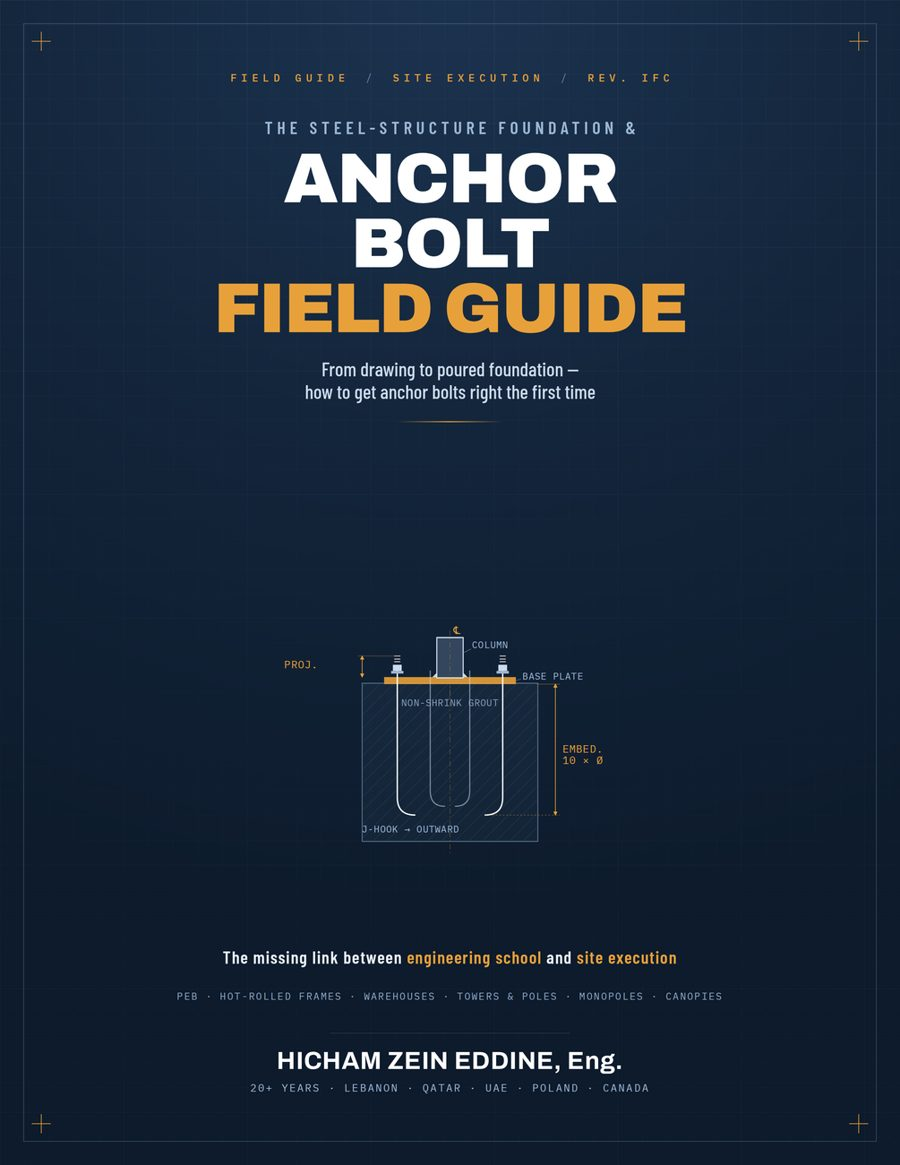
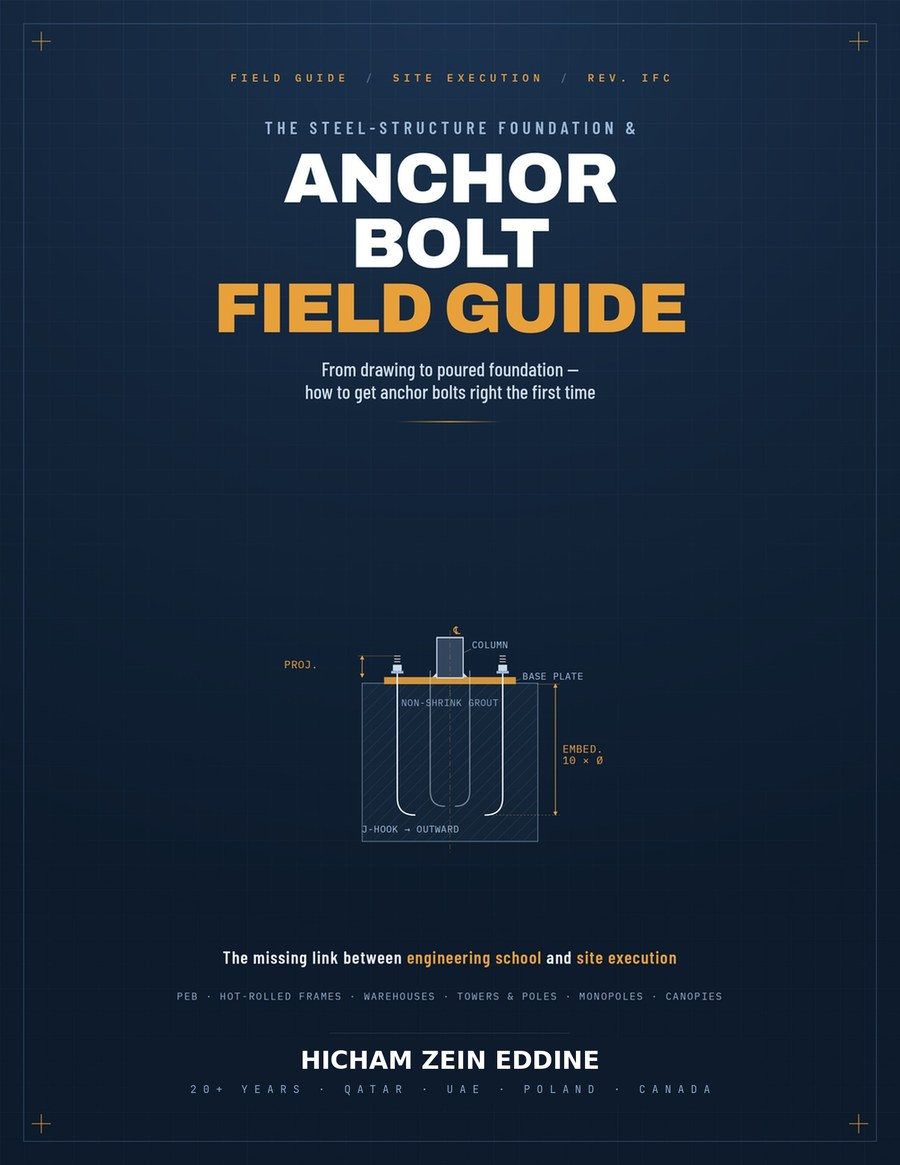
Add Kindle edition link (Amazon) and update cover images without old author title (#2)

Changed region(s): [[0.28, 0.8961, 0.6844, 0.9579], [0.6844, 0.927, 0.7156, 0.9579]]

diff --git a/articles/index.html b/articles/index.html
@@ -34,7 +34,7 @@ footer nav a{color:var(--muted);margin:0 4px}
 .hero h1{font-size:34px;line-height:1.2;margin:0 0 14px}.hero p{color:#d7e0ee;margin:0 0 18px}
 .kicker{color:var(--gold);font-weight:700;letter-spacing:2px;font-size:13px;text-transform:uppercase}
 .btn{display:inline-block;background:var(--gold);color:#13213a;font-weight:800;text-decoration:none;padding:13px 22px;border-radius:8px;margin:6px 0}
-.btn:hover{filter:brightness(1.05)}.btn.ghost{background:transparent;color:#fff;border:2px solid #ffffff55}
+.btn:hover{filter:brightness(1.05)}.btn.amz{background:#fff;color:#13213a;border:2px solid #13213a;padding:11px 20px;margin-left:6px}.btn.ghost{background:transparent;color:#fff;border:2px solid #ffffff55}
 .price{color:#fff;font-weight:700;margin-left:10px}
 main{padding:34px 0 10px}main h1{font-size:30px;line-height:1.25;margin:.2em 0 .5em}
 h2{font-size:23px;margin:1.6em 0 .5em;color:var(--navy)}h3{font-size:19px;margin:1.3em 0 .4em}
@@ -67,7 +67,7 @@ ul.check li:before{content:"";position:absolute;left:2px;top:12px;width:18px;hei
 <main><div class="wrap"><h1>Articles for site engineers and engineering students</h1><p>Practical answers taken from the field guide. Each one is short, sourced from the book, and ends with what to check on site.</p><div class="grid"><a class="card" href="/anchors-book-/articles/anchor-bolt-template/"><h3>How to make and use an anchor bolt template</h3><p>Why every anchor bolt group needs a template, how to fabricate it to match the column base plate, and why you should kee…</p></a><a class="card" href="/anchors-book-/articles/astm-f1554-grades/"><h3>ASTM F1554 Grade 36 vs 55 vs 105: which anchor bolt grade?</h3><p>The three ASTM F1554 anchor bolt grades, their yield strengths and typical uses, how they relate to ISO 8.8 and 10.9, an…</p></a><a class="card" href="/anchors-book-/articles/anchor-bolt-tolerances/"><h3>Anchor bolt setting tolerances: what is acceptable?</h3><p>Typical anchor bolt tolerances for bolt group position, spacing, projection and top elevation, based on AISC and ACI 117…</p></a><a class="card" href="/anchors-book-/articles/misaligned-anchor-bolts/"><h3>Misaligned anchor bolts after casting: the correct fixes</h3><p>What to do when the bolt group does not line up with the base plate holes: under 6 mm, 6 to 12 mm, and over 12 mm. Why y…</p></a><a class="card" href="/anchors-book-/articles/l-bolt-j-bolt-hook-orientation/"><h3>L-bolt and J-bolt hooks: which way should they face?</h3><p>Hooked anchor bolts must face the outside of the foundation. Plus the two-nuts-two-washers rule, embedment depth, and th…</p></a><a class="card" href="/anchors-book-/articles/pre-pour-checklist/"><h3>Pre-pour checklist for anchor bolts and foundations (final gate)</h3><p>The final gate before casting a steel-structure foundation: bolts, formwork, rebar, spacers, cleaning, threads, access, …</p></a><a class="card" href="/anchors-book-/articles/pouring-concrete-around-anchor-bolts/"><h3>Pouring concrete around anchor bolts without moving them</h3><p>Never aim the pump at the bolts, pour all ready foundations at once to avoid cold joints, and stop only at a designed co…</p></a><a class="card" href="/anchors-book-/articles/base-plate-non-shrink-grout/"><h3>Base plate grouting: why it must be non-shrink grout</h3><p>How the base plate sits on levelling nuts, why the gap must be filled with non-shrink grout (ASTM C1107), and how to fix…</p></a><a class="card" href="/anchors-book-/articles/damaged-anchor-bolt-threads/"><h3>Protecting and repairing anchor bolt threads</h3><p>Tape the threads before casting, and how to fix concrete-coated, impact-damaged or severely damaged anchor bolt threads.…</p></a><a class="card" href="/anchors-book-/articles/src-vs-opc-cement-foundations/"><h3>SRC vs OPC: which cement for foundations?</h3><p>Sulfate-Resisting Cement below ground, Ordinary Portland Cement above ground, with typical grades for blinding, footings…</p></a><a class="card" href="/anchors-book-/articles/first-day-on-site-new-engineer/"><h3>Your first site as a new engineer: earning the crew&#x27;s respect</h3><p>For engineering students and new graduates: how to work with tradesmen who have more years on site, avoid approval traps…</p></a><a class="card" href="/anchors-book-/articles/anchor-bolt-embedment-depth/"><h3>Anchor bolt embedment depth: how deep should anchor bolts go?</h3><p>Embedment depth is a design value, not a site estimate. The common 10 x diameter rule of thumb, what governs the real fi…</p></a><a class="card" href="/anchors-book-/articles/base-plate-levelling-nuts-shims/"><h3>Levelling nuts or shims under a column base plate?</h3><p>Why the base plate sits above the concrete on levelling nuts or shims, how the gap is used to level and plumb the column…</p></a><a class="card" href="/anchors-book-/articles/post-installed-anchors-chemical-vs-mechanical/"><h3>Post-installed anchors: chemical vs mechanical vs undercut</h3><p>When you need drilled-in anchors instead of cast-in bolts, how chemical, expansion and undercut anchors work, the standa…</p></a><a class="card" href="/anchors-book-/articles/steel-structure-foundation-sequence/"><h3>Steel structure foundation sequence: from drawing to grouted base plate</h3><p>The site sequence for PEB, warehouse, tower and canopy foundations in 15 steps: drawings, survey, access, excavation, bl…</p></a><a class="card" href="/anchors-book-/articles/pole-tower-anchor-bolts-uplift/"><h3>Anchor bolts for poles, towers and canopies under uplift</h3><p>Telecom masts, transmission towers, lighting poles and open canopies put anchor bolts in tension. What changes on site: …</p></a></div><div class="cta"><img src="/anchors-book-/img/cover.jpg" alt="Cover of the Anchor Bolt Field Guide" width="110" loading="lazy">
 <div><p><strong>The Steel-Structure Foundation & Anchor Bolt Field Guide</strong></p>
 <p>62 pages, the full site sequence from drawing to grouted base plate: survey, excavation, blinding, rebar, the anchor-bolt template, QA/QC hold points and field fixes. Written by Hicham Zein Eddine, from 20+ years on steel-structure and foundation sites in Qatar, the UAE, Poland and Canada.</p>
-<a class="btn" href="https://canadacorp.gumroad.com/l/anchor-bolt-guide?utm_source=guide-site&amp;utm_medium=web&amp;utm_campaign=articles">Get the full 62-page guide &rarr;</a></div></div></div></main>
+<a class="btn" href="https://canadacorp.gumroad.com/l/anchor-bolt-guide?utm_source=guide-site&amp;utm_medium=web&amp;utm_campaign=articles">Get the full 62-page guide &rarr;</a> <a class="btn amz" href="https://www.amazon.com/dp/B0HD6LLW8G" rel="noopener">Kindle edition on Amazon</a></div></div></div></main>
 <footer><div class="wrap">
 <p>This content is provided for professional educational use and does not replace a licensed structural engineer or the governing code for your jurisdiction. Always verify against the approved documents for your project.</p>
 <p>&copy; 2026 Hicham Zein Eddine. Content adapted from <em>The Steel-Structure Foundation & Anchor Bolt Field Guide</em>.</p>

diff --git a/index.html b/index.html
@@ -34,7 +34,7 @@ footer nav a{color:var(--muted);margin:0 4px}
 .hero h1{font-size:34px;line-height:1.2;margin:0 0 14px}.hero p{color:#d7e0ee;margin:0 0 18px}
 .kicker{color:var(--gold);font-weight:700;letter-spacing:2px;font-size:13px;text-transform:uppercase}
 .btn{display:inline-block;background:var(--gold);color:#13213a;font-weight:800;text-decoration:none;padding:13px 22px;border-radius:8px;margin:6px 0}
-.btn:hover{filter:brightness(1.05)}.btn.ghost{background:transparent;color:#fff;border:2px solid #ffffff55}
+.btn:hover{filter:brightness(1.05)}.btn.amz{background:#fff;color:#13213a;border:2px solid #13213a;padding:11px 20px;margin-left:6px}.btn.ghost{background:transparent;color:#fff;border:2px solid #ffffff55}
 .price{color:#fff;font-weight:700;margin-left:10px}
 main{padding:34px 0 10px}main h1{font-size:30px;line-height:1.25;margin:.2em 0 .5em}
 h2{font-size:23px;margin:1.6em 0 .5em;color:var(--navy)}h3{font-size:19px;margin:1.3em 0 .4em}
@@ -70,7 +70,7 @@ ul.check li:before{content:"";position:absolute;left:2px;top:12px;width:18px;hei
 <div><p class="kicker">Field guide · Site execution · 62 pages</p>
 <h1>Set anchor bolts right the first time, from drawing to grouted base plate.</h1>
 <p>They taught you how to design a foundation. This guide shows you how to build one: the exact site sequence, the template method, QA/QC hold points and the fixes when something goes wrong.</p>
-<a class="btn" href="https://canadacorp.gumroad.com/l/anchor-bolt-guide?utm_source=guide-site&amp;utm_medium=web&amp;utm_campaign=home-hero">Get the full 62-page guide &rarr;</a><span class="price">CAD$30 · PDF</span><br>
+<a class="btn" href="https://canadacorp.gumroad.com/l/anchor-bolt-guide?utm_source=guide-site&amp;utm_medium=web&amp;utm_campaign=home-hero">Get the full 62-page guide &rarr;</a> <a class="btn amz" href="https://www.amazon.com/dp/B0HD6LLW8G" rel="noopener">Kindle edition on Amazon</a><span class="price">CAD$30 · PDF</span><br>
 <a class="btn ghost" href="/anchors-book-/checklist/">Free pre-pour checklist</a></div>
 <img class="cover" src="/anchors-book-/img/cover.jpg" alt="Cover of The Steel-Structure Foundation & Anchor Bolt Field Guide" width="260"></div></section>
 <main><div class="wrap">
@@ -93,7 +93,7 @@ ul.check li:before{content:"";position:absolute;left:2px;top:12px;width:18px;hei
 <h2>Free articles</h2>
 <div class="grid"><a class="card" href="/anchors-book-/articles/anchor-bolt-template/"><h3>How to make and use an anchor bolt template</h3><p>Why every anchor bolt group needs a template, how to fabricate it to match the column base plate, and why you …</p></a><a class="card" href="/anchors-book-/articles/astm-f1554-grades/"><h3>ASTM F1554 Grade 36 vs 55 vs 105: which anchor bolt grade?</h3><p>The three ASTM F1554 anchor bolt grades, their yield strengths and typical uses, how they relate to ISO 8.8 an…</p></a><a class="card" href="/anchors-book-/articles/anchor-bolt-tolerances/"><h3>Anchor bolt setting tolerances: what is acceptable?</h3><p>Typical anchor bolt tolerances for bolt group position, spacing, projection and top elevation, based on AISC a…</p></a><a class="card" href="/anchors-book-/articles/misaligned-anchor-bolts/"><h3>Misaligned anchor bolts after casting: the correct fixes</h3><p>What to do when the bolt group does not line up with the base plate holes: under 6 mm, 6 to 12 mm, and over 12…</p></a><a class="card" href="/anchors-book-/articles/l-bolt-j-bolt-hook-orientation/"><h3>L-bolt and J-bolt hooks: which way should they face?</h3><p>Hooked anchor bolts must face the outside of the foundation. Plus the two-nuts-two-washers rule, embedment dep…</p></a><a class="card" href="/anchors-book-/articles/pre-pour-checklist/"><h3>Pre-pour checklist for anchor bolts and foundations (final gate)</h3><p>The final gate before casting a steel-structure foundation: bolts, formwork, rebar, spacers, cleaning, threads…</p></a></div>
 <p><a href="/anchors-book-/articles/">All articles &rarr;</a></p>
-<div style="text-align:center;margin:30px 0"><a class="btn" href="https://canadacorp.gumroad.com/l/anchor-bolt-guide?utm_source=guide-site&amp;utm_medium=web&amp;utm_campaign=home-bottom">Get the full 62-page guide &rarr;</a></div>
+<div style="text-align:center;margin:30px 0"><a class="btn" href="https://canadacorp.gumroad.com/l/anchor-bolt-guide?utm_source=guide-site&amp;utm_medium=web&amp;utm_campaign=home-bottom">Get the full 62-page guide &rarr;</a> <a class="btn amz" href="https://www.amazon.com/dp/B0HD6LLW8G" rel="noopener">Kindle edition on Amazon</a></div>
 </div></main>
 <footer><div class="wrap">
 <p>This content is provided for professional educational use and does not replace a licensed structural engineer or the governing code for your jurisdiction. Always verify against the approved documents for your project.</p>

diff --git a/articles/post-installed-anchors-chemical-vs-mechanical/index.html b/articles/post-installed-anchors-chemical-vs-mechanical/index.html
@@ -34,7 +34,7 @@ footer nav a{color:var(--muted);margin:0 4px}
 .hero h1{font-size:34px;line-height:1.2;margin:0 0 14px}.hero p{color:#d7e0ee;margin:0 0 18px}
 .kicker{color:var(--gold);font-weight:700;letter-spacing:2px;font-size:13px;text-transform:uppercase}
 .btn{display:inline-block;background:var(--gold);color:#13213a;font-weight:800;text-decoration:none;padding:13px 22px;border-radius:8px;margin:6px 0}
-.btn:hover{filter:brightness(1.05)}.btn.ghost{background:transparent;color:#fff;border:2px solid #ffffff55}
+.btn:hover{filter:brightness(1.05)}.btn.amz{background:#fff;color:#13213a;border:2px solid #13213a;padding:11px 20px;margin-left:6px}.btn.ghost{background:transparent;color:#fff;border:2px solid #ffffff55}
 .price{color:#fff;font-weight:700;margin-left:10px}
 main{padding:34px 0 10px}main h1{font-size:30px;line-height:1.25;margin:.2em 0 .5em}
 h2{font-size:23px;margin:1.6em 0 .5em;color:var(--navy)}h3{font-size:19px;margin:1.3em 0 .4em}
@@ -93,7 +93,7 @@ ul.check li:before{content:"";position:absolute;left:2px;top:12px;width:18px;hei
 <div class="cta"><img src="/anchors-book-/img/cover.jpg" alt="Cover of the Anchor Bolt Field Guide" width="110" loading="lazy">
 <div><p><strong>The Steel-Structure Foundation & Anchor Bolt Field Guide</strong></p>
 <p>62 pages, the full site sequence from drawing to grouted base plate: survey, excavation, blinding, rebar, the anchor-bolt template, QA/QC hold points and field fixes. Written by Hicham Zein Eddine, from 20+ years on steel-structure and foundation sites in Qatar, the UAE, Poland and Canada.</p>
-<a class="btn" href="https://canadacorp.gumroad.com/l/anchor-bolt-guide?utm_source=guide-site&amp;utm_medium=web&amp;utm_campaign=post-installed-anchors-chemical-vs-mechanical">Get the full 62-page guide &rarr;</a></div></div>
+<a class="btn" href="https://canadacorp.gumroad.com/l/anchor-bolt-guide?utm_source=guide-site&amp;utm_medium=web&amp;utm_campaign=post-installed-anchors-chemical-vs-mechanical">Get the full 62-page guide &rarr;</a> <a class="btn amz" href="https://www.amazon.com/dp/B0HD6LLW8G" rel="noopener">Kindle edition on Amazon</a></div></div>
 <h2>Keep reading</h2>
 <div class="grid"><a class="card" href="/anchors-book-/articles/misaligned-anchor-bolts/"><h3>Misaligned anchor bolts after casting: the correct fixes</h3><p>What to do when the bolt group does not line up with the base plate holes: under 6 mm, 6 to 12 mm, and over 12…</p></a><a class="card" href="/anchors-book-/articles/pre-pour-checklist/"><h3>Pre-pour checklist for anchor bolts and foundations (final gate)</h3><p>The final gate before casting a steel-structure foundation: bolts, formwork, rebar, spacers, cleaning, threads…</p></a><a class="card" href="/anchors-book-/articles/anchor-bolt-embedment-depth/"><h3>Anchor bolt embedment depth: how deep should anchor bolts go?</h3><p>Embedment depth is a design value, not a site estimate. The common 10 x diameter rule of thumb, what governs t…</p></a></div>
 </div></main>

diff --git a/articles/src-vs-opc-cement-foundations/index.html b/articles/src-vs-opc-cement-foundations/index.html
@@ -34,7 +34,7 @@ footer nav a{color:var(--muted);margin:0 4px}
 .hero h1{font-size:34px;line-height:1.2;margin:0 0 14px}.hero p{color:#d7e0ee;margin:0 0 18px}
 .kicker{color:var(--gold);font-weight:700;letter-spacing:2px;font-size:13px;text-transform:uppercase}
 .btn{display:inline-block;background:var(--gold);color:#13213a;font-weight:800;text-decoration:none;padding:13px 22px;border-radius:8px;margin:6px 0}
-.btn:hover{filter:brightness(1.05)}.btn.ghost{background:transparent;color:#fff;border:2px solid #ffffff55}
+.btn:hover{filter:brightness(1.05)}.btn.amz{background:#fff;color:#13213a;border:2px solid #13213a;padding:11px 20px;margin-left:6px}.btn.ghost{background:transparent;color:#fff;border:2px solid #ffffff55}
 .price{color:#fff;font-weight:700;margin-left:10px}
 main{padding:34px 0 10px}main h1{font-size:30px;line-height:1.25;margin:.2em 0 .5em}
 h2{font-size:23px;margin:1.6em 0 .5em;color:var(--navy)}h3{font-size:19px;margin:1.3em 0 .4em}
@@ -91,7 +91,7 @@ ul.check li:before{content:"";position:absolute;left:2px;top:12px;width:18px;hei
 <div class="cta"><img src="/anchors-book-/img/cover.jpg" alt="Cover of the Anchor Bolt Field Guide" width="110" loading="lazy">
 <div><p><strong>The Steel-Structure Foundation & Anchor Bolt Field Guide</strong></p>
 <p>62 pages, the full site sequence from drawing to grouted base plate: survey, excavation, blinding, rebar, the anchor-bolt template, QA/QC hold points and field fixes. Written by Hicham Zein Eddine, from 20+ years on steel-structure and foundation sites in Qatar, the UAE, Poland and Canada.</p>
-<a class="btn" href="https://canadacorp.gumroad.com/l/anchor-bolt-guide?utm_source=guide-site&amp;utm_medium=web&amp;utm_campaign=src-vs-opc-cement-foundations">Get the full 62-page guide &rarr;</a></div></div>
+<a class="btn" href="https://canadacorp.gumroad.com/l/anchor-bolt-guide?utm_source=guide-site&amp;utm_medium=web&amp;utm_campaign=src-vs-opc-cement-foundations">Get the full 62-page guide &rarr;</a> <a class="btn amz" href="https://www.amazon.com/dp/B0HD6LLW8G" rel="noopener">Kindle edition on Amazon</a></div></div>
 <h2>Keep reading</h2>
 <div class="grid"><a class="card" href="/anchors-book-/articles/pre-pour-checklist/"><h3>Pre-pour checklist for anchor bolts and foundations (final gate)</h3><p>The final gate before casting a steel-structure foundation: bolts, formwork, rebar, spacers, cleaning, threads…</p></a><a class="card" href="/anchors-book-/articles/pouring-concrete-around-anchor-bolts/"><h3>Pouring concrete around anchor bolts without moving them</h3><p>Never aim the pump at the bolts, pour all ready foundations at once to avoid cold joints, and stop only at a d…</p></a><a class="card" href="/anchors-book-/articles/first-day-on-site-new-engineer/"><h3>Your first site as a new engineer: earning the crew&#x27;s respect</h3><p>For engineering students and new graduates: how to work with tradesmen who have more years on site, avoid appr…</p></a></div>
 </div></main>

diff --git a/articles/steel-structure-foundation-sequence/index.html b/articles/steel-structure-foundation-sequence/index.html
@@ -34,7 +34,7 @@ footer nav a{color:var(--muted);margin:0 4px}
 .hero h1{font-size:34px;line-height:1.2;margin:0 0 14px}.hero p{color:#d7e0ee;margin:0 0 18px}
 .kicker{color:var(--gold);font-weight:700;letter-spacing:2px;font-size:13px;text-transform:uppercase}
 .btn{display:inline-block;background:var(--gold);color:#13213a;font-weight:800;text-decoration:none;padding:13px 22px;border-radius:8px;margin:6px 0}
-.btn:hover{filter:brightness(1.05)}.btn.ghost{background:transparent;color:#fff;border:2px solid #ffffff55}
+.btn:hover{filter:brightness(1.05)}.btn.amz{background:#fff;color:#13213a;border:2px solid #13213a;padding:11px 20px;margin-left:6px}.btn.ghost{background:transparent;color:#fff;border:2px solid #ffffff55}
 .price{color:#fff;font-weight:700;margin-left:10px}
 main{padding:34px 0 10px}main h1{font-size:30px;line-height:1.25;margin:.2em 0 .5em}
 h2{font-size:23px;margin:1.6em 0 .5em;color:var(--navy)}h3{font-size:19px;margin:1.3em 0 .4em}
@@ -101,7 +101,7 @@ ul.check li:before{content:"";position:absolute;left:2px;top:12px;width:18px;hei
 <div class="cta"><img src="/anchors-book-/img/cover.jpg" alt="Cover of the Anchor Bolt Field Guide" width="110" loading="lazy">
 <div><p><strong>The Steel-Structure Foundation & Anchor Bolt Field Guide</strong></p>
 <p>62 pages, the full site sequence from drawing to grouted base plate: survey, excavation, blinding, rebar, the anchor-bolt template, QA/QC hold points and field fixes. Written by Hicham Zein Eddine, from 20+ years on steel-structure and foundation sites in Qatar, the UAE, Poland and Canada.</p>
-<a class="btn" href="https://canadacorp.gumroad.com/l/anchor-bolt-guide?utm_source=guide-site&amp;utm_medium=web&amp;utm_campaign=steel-structure-foundation-sequence">Get the full 62-page guide &rarr;</a></div></div>
+<a class="btn" href="https://canadacorp.gumroad.com/l/anchor-bolt-guide?utm_source=guide-site&amp;utm_medium=web&amp;utm_campaign=steel-structure-foundation-sequence">Get the full 62-page guide &rarr;</a> <a class="btn amz" href="https://www.amazon.com/dp/B0HD6LLW8G" rel="noopener">Kindle edition on Amazon</a></div></div>
 <h2>Keep reading</h2>
 <div class="grid"><a class="card" href="/anchors-book-/articles/anchor-bolt-template/"><h3>How to make and use an anchor bolt template</h3><p>Why every anchor bolt group needs a template, how to fabricate it to match the column base plate, and why you …</p></a><a class="card" href="/anchors-book-/articles/pre-pour-checklist/"><h3>Pre-pour checklist for anchor bolts and foundations (final gate)</h3><p>The final gate before casting a steel-structure foundation: bolts, formwork, rebar, spacers, cleaning, threads…</p></a><a class="card" href="/anchors-book-/articles/first-day-on-site-new-engineer/"><h3>Your first site as a new engineer: earning the crew&#x27;s respect</h3><p>For engineering students and new graduates: how to work with tradesmen who have more years on site, avoid appr…</p></a></div>
 </div></main>

diff --git a/articles/pole-tower-anchor-bolts-uplift/index.html b/articles/pole-tower-anchor-bolts-uplift/index.html
@@ -34,7 +34,7 @@ footer nav a{color:var(--muted);margin:0 4px}
 .hero h1{font-size:34px;line-height:1.2;margin:0 0 14px}.hero p{color:#d7e0ee;margin:0 0 18px}
 .kicker{color:var(--gold);font-weight:700;letter-spacing:2px;font-size:13px;text-transform:uppercase}
 .btn{display:inline-block;background:var(--gold);color:#13213a;font-weight:800;text-decoration:none;padding:13px 22px;border-radius:8px;margin:6px 0}
-.btn:hover{filter:brightness(1.05)}.btn.ghost{background:transparent;color:#fff;border:2px solid #ffffff55}
+.btn:hover{filter:brightness(1.05)}.btn.amz{background:#fff;color:#13213a;border:2px solid #13213a;padding:11px 20px;margin-left:6px}.btn.ghost{background:transparent;color:#fff;border:2px solid #ffffff55}
 .price{color:#fff;font-weight:700;margin-left:10px}
 main{padding:34px 0 10px}main h1{font-size:30px;line-height:1.25;margin:.2em 0 .5em}
 h2{font-size:23px;margin:1.6em 0 .5em;color:var(--navy)}h3{font-size:19px;margin:1.3em 0 .4em}
@@ -89,7 +89,7 @@ ul.check li:before{content:"";position:absolute;left:2px;top:12px;width:18px;hei
 <div class="cta"><img src="/anchors-book-/img/cover.jpg" alt="Cover of the Anchor Bolt Field Guide" width="110" loading="lazy">
 <div><p><strong>The Steel-Structure Foundation & Anchor Bolt Field Guide</strong></p>
 <p>62 pages, the full site sequence from drawing to grouted base plate: survey, excavation, blinding, rebar, the anchor-bolt template, QA/QC hold points and field fixes. Written by Hicham Zein Eddine, from 20+ years on steel-structure and foundation sites in Qatar, the UAE, Poland and Canada.</p>
-<a class="btn" href="https://canadacorp.gumroad.com/l/anchor-bolt-guide?utm_source=guide-site&amp;utm_medium=web&amp;utm_campaign=pole-tower-anchor-bolts-uplift">Get the full 62-page guide &rarr;</a></div></div>
+<a class="btn" href="https://canadacorp.gumroad.com/l/anchor-bolt-guide?utm_source=guide-site&amp;utm_medium=web&amp;utm_campaign=pole-tower-anchor-bolts-uplift">Get the full 62-page guide &rarr;</a> <a class="btn amz" href="https://www.amazon.com/dp/B0HD6LLW8G" rel="noopener">Kindle edition on Amazon</a></div></div>
 <h2>Keep reading</h2>
 <div class="grid"><a class="card" href="/anchors-book-/articles/l-bolt-j-bolt-hook-orientation/"><h3>L-bolt and J-bolt hooks: which way should they face?</h3><p>Hooked anchor bolts must face the outside of the foundation. Plus the two-nuts-two-washers rule, embedment dep…</p></a><a class="card" href="/anchors-book-/articles/base-plate-non-shrink-grout/"><h3>Base plate grouting: why it must be non-shrink grout</h3><p>How the base plate sits on levelling nuts, why the gap must be filled with non-shrink grout (ASTM C1107), and …</p></a><a class="card" href="/anchors-book-/articles/anchor-bolt-embedment-depth/"><h3>Anchor bolt embedment depth: how deep should anchor bolts go?</h3><p>Embedment depth is a design value, not a site estimate. The common 10 x diameter rule of thumb, what governs t…</p></a></div>
 </div></main>

diff --git a/articles/pouring-concrete-around-anchor-bolts/index.html b/articles/pouring-concrete-around-anchor-bolts/index.html
@@ -34,7 +34,7 @@ footer nav a{color:var(--muted);margin:0 4px}
 .hero h1{font-size:34px;line-height:1.2;margin:0 0 14px}.hero p{color:#d7e0ee;margin:0 0 18px}
 .kicker{color:var(--gold);font-weight:700;letter-spacing:2px;font-size:13px;text-transform:uppercase}
 .btn{display:inline-block;background:var(--gold);color:#13213a;font-weight:800;text-decoration:none;padding:13px 22px;border-radius:8px;margin:6px 0}
-.btn:hover{filter:brightness(1.05)}.btn.ghost{background:transparent;color:#fff;border:2px solid #ffffff55}
+.btn:hover{filter:brightness(1.05)}.btn.amz{background:#fff;color:#13213a;border:2px solid #13213a;padding:11px 20px;margin-left:6px}.btn.ghost{background:transparent;color:#fff;border:2px solid #ffffff55}
 .price{color:#fff;font-weight:700;margin-left:10px}
 main{padding:34px 0 10px}main h1{font-size:30px;line-height:1.25;margin:.2em 0 .5em}
 h2{font-size:23px;margin:1.6em 0 .5em;color:var(--navy)}h3{font-size:19px;margin:1.3em 0 .4em}
@@ -90,7 +90,7 @@ ul.check li:before{content:"";position:absolute;left:2px;top:12px;width:18px;hei
 <div class="cta"><img src="/anchors-book-/img/cover.jpg" alt="Cover of the Anchor Bolt Field Guide" width="110" loading="lazy">
 <div><p><strong>The Steel-Structure Foundation & Anchor Bolt Field Guide</strong></p>
 <p>62 pages, the full site sequence from drawing to grouted base plate: survey, excavation, blinding, rebar, the anchor-bolt template, QA/QC hold points and field fixes. Written by Hicham Zein Eddine, from 20+ years on steel-structure and foundation sites in Qatar, the UAE, Poland and Canada.</p>
-<a class="btn" href="https://canadacorp.gumroad.com/l/anchor-bolt-guide?utm_source=guide-site&amp;utm_medium=web&amp;utm_campaign=pouring-concrete-around-anchor-bolts">Get the full 62-page guide &rarr;</a></div></div>
+<a class="btn" href="https://canadacorp.gumroad.com/l/anchor-bolt-guide?utm_source=guide-site&amp;utm_medium=web&amp;utm_campaign=pouring-concrete-around-anchor-bolts">Get the full 62-page guide &rarr;</a> <a class="btn amz" href="https://www.amazon.com/dp/B0HD6LLW8G" rel="noopener">Kindle edition on Amazon</a></div></div>
 <h2>Keep reading</h2>
 <div class="grid"><a class="card" href="/anchors-book-/articles/l-bolt-j-bolt-hook-orientation/"><h3>L-bolt and J-bolt hooks: which way should they face?</h3><p>Hooked anchor bolts must face the outside of the foundation. Plus the two-nuts-two-washers rule, embedment dep…</p></a><a class="card" href="/anchors-book-/articles/pre-pour-checklist/"><h3>Pre-pour checklist for anchor bolts and foundations (final gate)</h3><p>The final gate before casting a steel-structure foundation: bolts, formwork, rebar, spacers, cleaning, threads…</p></a><a class="card" href="/anchors-book-/articles/src-vs-opc-cement-foundations/"><h3>SRC vs OPC: which cement for foundations?</h3><p>Sulfate-Resisting Cement below ground, Ordinary Portland Cement above ground, with typical grades for blinding…</p></a></div>
 </div></main>

diff --git a/articles/damaged-anchor-bolt-threads/index.html b/articles/damaged-anchor-bolt-threads/index.html
@@ -34,7 +34,7 @@ footer nav a{color:var(--muted);margin:0 4px}
 .hero h1{font-size:34px;line-height:1.2;margin:0 0 14px}.hero p{color:#d7e0ee;margin:0 0 18px}
 .kicker{color:var(--gold);font-weight:700;letter-spacing:2px;font-size:13px;text-transform:uppercase}
 .btn{display:inline-block;background:var(--gold);color:#13213a;font-weight:800;text-decoration:none;padding:13px 22px;border-radius:8px;margin:6px 0}
-.btn:hover{filter:brightness(1.05)}.btn.ghost{background:transparent;color:#fff;border:2px solid #ffffff55}
+.btn:hover{filter:brightness(1.05)}.btn.amz{background:#fff;color:#13213a;border:2px solid #13213a;padding:11px 20px;margin-left:6px}.btn.ghost{background:transparent;color:#fff;border:2px solid #ffffff55}
 .price{color:#fff;font-weight:700;margin-left:10px}
 main{padding:34px 0 10px}main h1{font-size:30px;line-height:1.25;margin:.2em 0 .5em}
 h2{font-size:23px;margin:1.6em 0 .5em;color:var(--navy)}h3{font-size:19px;margin:1.3em 0 .4em}
@@ -91,7 +91,7 @@ ul.check li:before{content:"";position:absolute;left:2px;top:12px;width:18px;hei
 <div class="cta"><img src="/anchors-book-/img/cover.jpg" alt="Cover of the Anchor Bolt Field Guide" width="110" loading="lazy">
 <div><p><strong>The Steel-Structure Foundation & Anchor Bolt Field Guide</strong></p>
 <p>62 pages, the full site sequence from drawing to grouted base plate: survey, excavation, blinding, rebar, the anchor-bolt template, QA/QC hold points and field fixes. Written by Hicham Zein Eddine, from 20+ years on steel-structure and foundation sites in Qatar, the UAE, Poland and Canada.</p>
-<a class="btn" href="https://canadacorp.gumroad.com/l/anchor-bolt-guide?utm_source=guide-site&amp;utm_medium=web&amp;utm_campaign=damaged-anchor-bolt-threads">Get the full 62-page guide &rarr;</a></div></div>
+<a class="btn" href="https://canadacorp.gumroad.com/l/anchor-bolt-guide?utm_source=guide-site&amp;utm_medium=web&amp;utm_campaign=damaged-anchor-bolt-threads">Get the full 62-page guide &rarr;</a> <a class="btn amz" href="https://www.amazon.com/dp/B0HD6LLW8G" rel="noopener">Kindle edition on Amazon</a></div></div>
 <h2>Keep reading</h2>
 <div class="grid"><a class="card" href="/anchors-book-/articles/misaligned-anchor-bolts/"><h3>Misaligned anchor bolts after casting: the correct fixes</h3><p>What to do when the bolt group does not line up with the base plate holes: under 6 mm, 6 to 12 mm, and over 12…</p></a><a class="card" href="/anchors-book-/articles/pre-pour-checklist/"><h3>Pre-pour checklist for anchor bolts and foundations (final gate)</h3><p>The final gate before casting a steel-structure foundation: bolts, formwork, rebar, spacers, cleaning, threads…</p></a><a class="card" href="/anchors-book-/articles/base-plate-non-shrink-grout/"><h3>Base plate grouting: why it must be non-shrink grout</h3><p>How the base plate sits on levelling nuts, why the gap must be filled with non-shrink grout (ASTM C1107), and …</p></a></div>
 </div></main>

diff --git a/articles/base-plate-levelling-nuts-shims/index.html b/articles/base-plate-levelling-nuts-shims/index.html
@@ -34,7 +34,7 @@ footer nav a{color:var(--muted);margin:0 4px}
 .hero h1{font-size:34px;line-height:1.2;margin:0 0 14px}.hero p{color:#d7e0ee;margin:0 0 18px}
 .kicker{color:var(--gold);font-weight:700;letter-spacing:2px;font-size:13px;text-transform:uppercase}
 .btn{display:inline-block;background:var(--gold);color:#13213a;font-weight:800;text-decoration:none;padding:13px 22px;border-radius:8px;margin:6px 0}
-.btn:hover{filter:brightness(1.05)}.btn.ghost{background:transparent;color:#fff;border:2px solid #ffffff55}
+.btn:hover{filter:brightness(1.05)}.btn.amz{background:#fff;color:#13213a;border:2px solid #13213a;padding:11px 20px;margin-left:6px}.btn.ghost{background:transparent;color:#fff;border:2px solid #ffffff55}
 .price{color:#fff;font-weight:700;margin-left:10px}
 main{padding:34px 0 10px}main h1{font-size:30px;line-height:1.25;margin:.2em 0 .5em}
 h2{font-size:23px;margin:1.6em 0 .5em;color:var(--navy)}h3{font-size:19px;margin:1.3em 0 .4em}
@@ -95,7 +95,7 @@ ul.check li:before{content:"";position:absolute;left:2px;top:12px;width:18px;hei
 <div class="cta"><img src="/anchors-book-/img/cover.jpg" alt="Cover of the Anchor Bolt Field Guide" width="110" loading="lazy">
 <div><p><strong>The Steel-Structure Foundation & Anchor Bolt Field Guide</strong></p>
 <p>62 pages, the full site sequence from drawing to grouted base plate: survey, excavation, blinding, rebar, the anchor-bolt template, QA/QC hold points and field fixes. Written by Hicham Zein Eddine, from 20+ years on steel-structure and foundation sites in Qatar, the UAE, Poland and Canada.</p>
-<a class="btn" href="https://canadacorp.gumroad.com/l/anchor-bolt-guide?utm_source=guide-site&amp;utm_medium=web&amp;utm_campaign=base-plate-levelling-nuts-shims">Get the full 62-page guide &rarr;</a></div></div>
+<a class="btn" href="https://canadacorp.gumroad.com/l/anchor-bolt-guide?utm_source=guide-site&amp;utm_medium=web&amp;utm_campaign=base-plate-levelling-nuts-shims">Get the full 62-page guide &rarr;</a> <a class="btn amz" href="https://www.amazon.com/dp/B0HD6LLW8G" rel="noopener">Kindle edition on Amazon</a></div></div>
 <h2>Keep reading</h2>
 <div class="grid"><a class="card" href="/anchors-book-/articles/anchor-bolt-tolerances/"><h3>Anchor bolt setting tolerances: what is acceptable?</h3><p>Typical anchor bolt tolerances for bolt group position, spacing, projection and top elevation, based on AISC a…</p></a><a class="card" href="/anchors-book-/articles/misaligned-anchor-bolts/"><h3>Misaligned anchor bolts after casting: the correct fixes</h3><p>What to do when the bolt group does not line up with the base plate holes: under 6 mm, 6 to 12 mm, and over 12…</p></a><a class="card" href="/anchors-book-/articles/base-plate-non-shrink-grout/"><h3>Base plate grouting: why it must be non-shrink grout</h3><p>How the base plate sits on levelling nuts, why the gap must be filled with non-shrink grout (ASTM C1107), and …</p></a></div>
 </div></main>

diff --git a/articles/l-bolt-j-bolt-hook-orientation/index.html b/articles/l-bolt-j-bolt-hook-orientation/index.html
@@ -34,7 +34,7 @@ footer nav a{color:var(--muted);margin:0 4px}
 .hero h1{font-size:34px;line-height:1.2;margin:0 0 14px}.hero p{color:#d7e0ee;margin:0 0 18px}
 .kicker{color:var(--gold);font-weight:700;letter-spacing:2px;font-size:13px;text-transform:uppercase}
 .btn{display:inline-block;background:var(--gold);color:#13213a;font-weight:800;text-decoration:none;padding:13px 22px;border-radius:8px;margin:6px 0}
-.btn:hover{filter:brightness(1.05)}.btn.ghost{background:transparent;color:#fff;border:2px solid #ffffff55}
+.btn:hover{filter:brightness(1.05)}.btn.amz{background:#fff;color:#13213a;border:2px solid #13213a;padding:11px 20px;margin-left:6px}.btn.ghost{background:transparent;color:#fff;border:2px solid #ffffff55}
 .price{color:#fff;font-weight:700;margin-left:10px}
 main{padding:34px 0 10px}main h1{font-size:30px;line-height:1.25;margin:.2em 0 .5em}
 h2{font-size:23px;margin:1.6em 0 .5em;color:var(--navy)}h3{font-size:19px;margin:1.3em 0 .4em}
@@ -90,7 +90,7 @@ ul.check li:before{content:"";position:absolute;left:2px;top:12px;width:18px;hei
 <div class="cta"><img src="/anchors-book-/img/cover.jpg" alt="Cover of the Anchor Bolt Field Guide" width="110" loading="lazy">
 <div><p><strong>The Steel-Structure Foundation & Anchor Bolt Field Guide</strong></p>
 <p>62 pages, the full site sequence from drawing to grouted base plate: survey, excavation, blinding, rebar, the anchor-bolt template, QA/QC hold points and field fixes. Written by Hicham Zein Eddine, from 20+ years on steel-structure and foundation sites in Qatar, the UAE, Poland and Canada.</p>
-<a class="btn" href="https://canadacorp.gumroad.com/l/anchor-bolt-guide?utm_source=guide-site&amp;utm_medium=web&amp;utm_campaign=l-bolt-j-bolt-hook-orientation">Get the full 62-page guide &rarr;</a></div></div>
+<a class="btn" href="https://canadacorp.gumroad.com/l/anchor-bolt-guide?utm_source=guide-site&amp;utm_medium=web&amp;utm_campaign=l-bolt-j-bolt-hook-orientation">Get the full 62-page guide &rarr;</a> <a class="btn amz" href="https://www.amazon.com/dp/B0HD6LLW8G" rel="noopener">Kindle edition on Amazon</a></div></div>
 <h2>Keep reading</h2>
 <div class="grid"><a class="card" href="/anchors-book-/articles/anchor-bolt-template/"><h3>How to make and use an anchor bolt template</h3><p>Why every anchor bolt group needs a template, how to fabricate it to match the column base plate, and why you …</p></a><a class="card" href="/anchors-book-/articles/astm-f1554-grades/"><h3>ASTM F1554 Grade 36 vs 55 vs 105: which anchor bolt grade?</h3><p>The three ASTM F1554 anchor bolt grades, their yield strengths and typical uses, how they relate to ISO 8.8 an…</p></a><a class="card" href="/anchors-book-/articles/pouring-concrete-around-anchor-bolts/"><h3>Pouring concrete around anchor bolts without moving them</h3><p>Never aim the pump at the bolts, pour all ready foundations at once to avoid cold joints, and stop only at a d…</p></a></div>
 </div></main>

diff --git a/articles/first-day-on-site-new-engineer/index.html b/articles/first-day-on-site-new-engineer/index.html
@@ -34,7 +34,7 @@ footer nav a{color:var(--muted);margin:0 4px}
 .hero h1{font-size:34px;line-height:1.2;margin:0 0 14px}.hero p{color:#d7e0ee;margin:0 0 18px}
 .kicker{color:var(--gold);font-weight:700;letter-spacing:2px;font-size:13px;text-transform:uppercase}
 .btn{display:inline-block;background:var(--gold);color:#13213a;font-weight:800;text-decoration:none;padding:13px 22px;border-radius:8px;margin:6px 0}
-.btn:hover{filter:brightness(1.05)}.btn.ghost{background:transparent;color:#fff;border:2px solid #ffffff55}
+.btn:hover{filter:brightness(1.05)}.btn.amz{background:#fff;color:#13213a;border:2px solid #13213a;padding:11px 20px;margin-left:6px}.btn.ghost{background:transparent;color:#fff;border:2px solid #ffffff55}
 .price{color:#fff;font-weight:700;margin-left:10px}
 main{padding:34px 0 10px}main h1{font-size:30px;line-height:1.25;margin:.2em 0 .5em}
 h2{font-size:23px;margin:1.6em 0 .5em;color:var(--navy)}h3{font-size:19px;margin:1.3em 0 .4em}
@@ -91,7 +91,7 @@ ul.check li:before{content:"";position:absolute;left:2px;top:12px;width:18px;hei
 <div class="cta"><img src="/anchors-book-/img/cover.jpg" alt="Cover of the Anchor Bolt Field Guide" width="110" loading="lazy">
 <div><p><strong>The Steel-Structure Foundation & Anchor Bolt Field Guide</strong></p>
 <p>62 pages, the full site sequence from drawing to grouted base plate: survey, excavation, blinding, rebar, the anchor-bolt template, QA/QC hold points and field fixes. Written by Hicham Zein Eddine, from 20+ years on steel-structure and foundation sites in Qatar, the UAE, Poland and Canada.</p>
-<a class="btn" href="https://canadacorp.gumroad.com/l/anchor-bolt-guide?utm_source=guide-site&amp;utm_medium=web&amp;utm_campaign=first-day-on-site-new-engineer">Get the full 62-page guide &rarr;</a></div></div>
+<a class="btn" href="https://canadacorp.gumroad.com/l/anchor-bolt-guide?utm_source=guide-site&amp;utm_medium=web&amp;utm_campaign=first-day-on-site-new-engineer">Get the full 62-page guide &rarr;</a> <a class="btn amz" href="https://www.amazon.com/dp/B0HD6LLW8G" rel="noopener">Kindle edition on Amazon</a></div></div>
 <h2>Keep reading</h2>
 <div class="grid"><a class="card" href="/anchors-book-/articles/anchor-bolt-template/"><h3>How to make and use an anchor bolt template</h3><p>Why every anchor bolt group needs a template, how to fabricate it to match the column base plate, and why you …</p></a><a class="card" href="/anchors-book-/articles/misaligned-anchor-bolts/"><h3>Misaligned anchor bolts after casting: the correct fixes</h3><p>What to do when the bolt group does not line up with the base plate holes: under 6 mm, 6 to 12 mm, and over 12…</p></a><a class="card" href="/anchors-book-/articles/pre-pour-checklist/"><h3>Pre-pour checklist for anchor bolts and foundations (final gate)</h3><p>The final gate before casting a steel-structure foundation: bolts, formwork, rebar, spacers, cleaning, threads…</p></a></div>
 </div></main>

diff --git a/articles/misaligned-anchor-bolts/index.html b/articles/misaligned-anchor-bolts/index.html
@@ -34,7 +34,7 @@ footer nav a{color:var(--muted);margin:0 4px}
 .hero h1{font-size:34px;line-height:1.2;margin:0 0 14px}.hero p{color:#d7e0ee;margin:0 0 18px}
 .kicker{color:var(--gold);font-weight:700;letter-spacing:2px;font-size:13px;text-transform:uppercase}
 .btn{display:inline-block;background:var(--gold);color:#13213a;font-weight:800;text-decoration:none;padding:13px 22px;border-radius:8px;margin:6px 0}
-.btn:hover{filter:brightness(1.05)}.btn.ghost{background:transparent;color:#fff;border:2px solid #ffffff55}
+.btn:hover{filter:brightness(1.05)}.btn.amz{background:#fff;color:#13213a;border:2px solid #13213a;padding:11px 20px;margin-left:6px}.btn.ghost{background:transparent;color:#fff;border:2px solid #ffffff55}
 .price{color:#fff;font-weight:700;margin-left:10px}
 main{padding:34px 0 10px}main h1{font-size:30px;line-height:1.25;margin:.2em 0 .5em}
 h2{font-size:23px;margin:1.6em 0 .5em;color:var(--navy)}h3{font-size:19px;margin:1.3em 0 .4em}
@@ -89,7 +89,7 @@ ul.check li:before{content:"";position:absolute;left:2px;top:12px;width:18px;hei
 <div class="cta"><img src="/anchors-book-/img/cover.jpg" alt="Cover of the Anchor Bolt Field Guide" width="110" loading="lazy">
 <div><p><strong>The Steel-Structure Foundation & Anchor Bolt Field Guide</strong></p>
 <p>62 pages, the full site sequence from drawing to grouted base plate: survey, excavation, blinding, rebar, the anchor-bolt template, QA/QC hold points and field fixes. Written by Hicham Zein Eddine, from 20+ years on steel-structure and foundation sites in Qatar, the UAE, Poland and Canada.</p>
-<a class="btn" href="https://canadacorp.gumroad.com/l/anchor-bolt-guide?utm_source=guide-site&amp;utm_medium=web&amp;utm_campaign=misaligned-anchor-bolts">Get the full 62-page guide &rarr;</a></div></div>
+<a class="btn" href="https://canadacorp.gumroad.com/l/anchor-bolt-guide?utm_source=guide-site&amp;utm_medium=web&amp;utm_campaign=misaligned-anchor-bolts">Get the full 62-page guide &rarr;</a> <a class="btn amz" href="https://www.amazon.com/dp/B0HD6LLW8G" rel="noopener">Kindle edition on Amazon</a></div></div>
 <h2>Keep reading</h2>
 <div class="grid"><a class="card" href="/anchors-book-/articles/anchor-bolt-tolerances/"><h3>Anchor bolt setting tolerances: what is acceptable?</h3><p>Typical anchor bolt tolerances for bolt group position, spacing, projection and top elevation, based on AISC a…</p></a><a class="card" href="/anchors-book-/articles/pouring-concrete-around-anchor-bolts/"><h3>Pouring concrete around anchor bolts without moving them</h3><p>Never aim the pump at the bolts, pour all ready foundations at once to avoid cold joints, and stop only at a d…</p></a><a class="card" href="/anchors-book-/articles/damaged-anchor-bolt-threads/"><h3>Protecting and repairing anchor bolt threads</h3><p>Tape the threads before casting, and how to fix concrete-coated, impact-damaged or severely damaged anchor bol…</p></a></div>
 </div></main>
